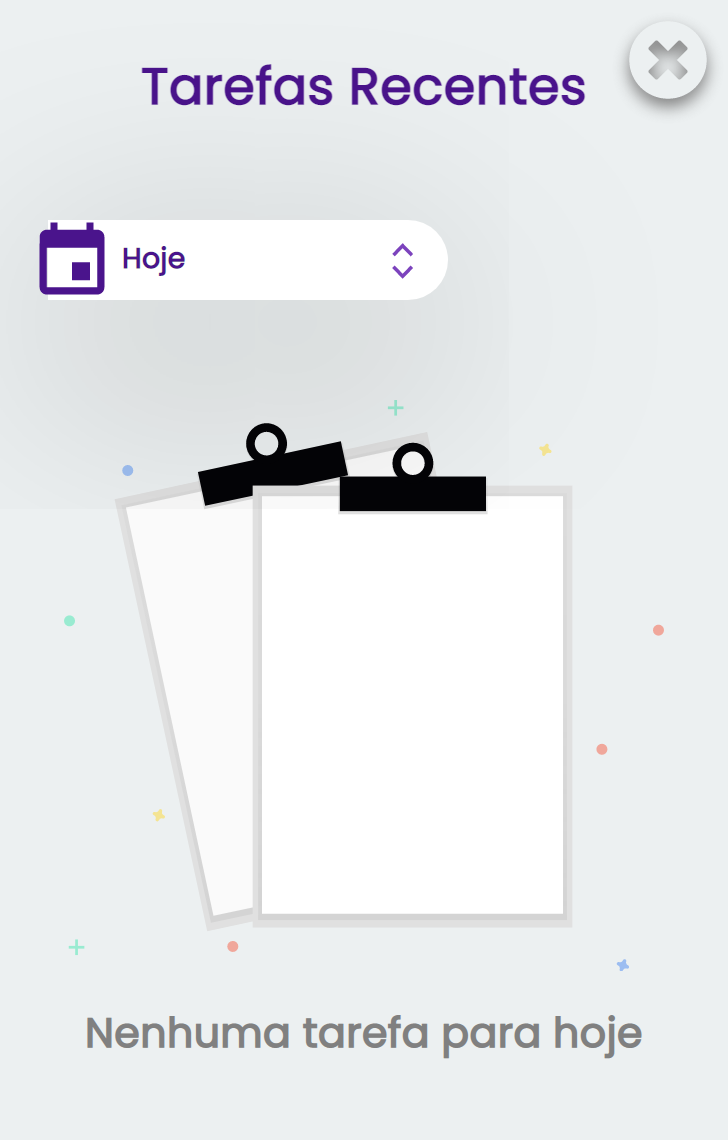
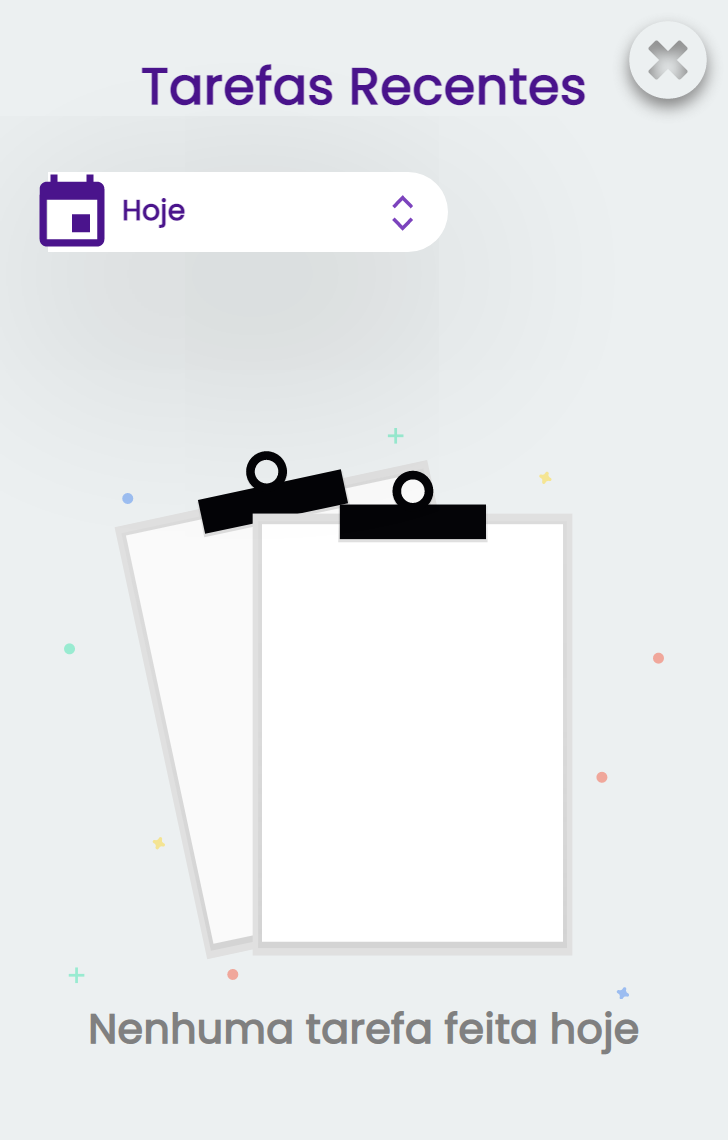
team management pt 2

diff --git a/src/components/auth/AsyncRegisterCliUser.js b/src/components/auth/AsyncRegisterCliUser.js
@@ -13,17 +13,17 @@ import PhoneIphoneIcon from "@material-ui/icons/PhoneIphone";
 import CakeIcon from "@material-ui/icons/Cake";
 import Card from "@material-ui/core/Card";
 import ReactGA from "react-ga";
-import Title from "../Title";
+import useData, { useBizData } from "init";
+import { doRegister } from "auth/api";
 import autoPhoneMask from "../../utils/validation/masks/autoPhoneMask";
 import autoCpfMaskBr from "../../utils/validation/masks/autoCpfMaskBr";
 import getDayMonthBr from "../../utils/dates/getDayMonthBr";
 import SafeEnvironmentMsg from "../SafeEnvironmentMsg";
 import RadiusBtn from "../buttons/RadiusBtn";
-import { doRegister } from "auth/api";
+import Title from "../Title";
 // Helpers
 import detectErrorField from "../../utils/validation/detectErrorField";
 import handleChange from "../../utils/form/use-state/handleChange";
-import useData, { useBizData } from "init";
 import setValObjWithStr from "../../utils/objects/setValObjWithStr";
 import getDateCode from "../../utils/dates/getDateCode";
 import ButtonMulti, { faStyle } from "../buttons/material-ui/ButtonMulti";
@@ -59,6 +59,7 @@ function ASyncRegisterCliUser({
     isStaff = false,
     callback,
     setLoginOrRegister,
+    needAlreadyRegisterBtn = false,
 }) {
     const [actionBtnDisabled, setActionBtnDisabled] = useState(false);
     const [switchNumToText, setSwitchNumToText] = useState(false); // n1
@@ -98,6 +99,7 @@ function ASyncRegisterCliUser({
         themeSColor,
         bizLogo,
         bizName,
+        bizId,
     } = useBizData();
 
     const [
@@ -141,7 +143,7 @@ function ASyncRegisterCliUser({
                     memberRole: memberRole || memberRoleAlt, // if not found memberRole, it means it is a complete register before sending link invitation.
                     clientUserData: {
                         ...data.clientUserData,
-                        bizId: lastRegisterBizId,
+                        bizId: lastRegisterBizId || bizId,
                     },
                     linkCode,
                 }));
@@ -200,27 +202,21 @@ function ASyncRegisterCliUser({
             ...data,
         };
 
-        if (!lastRegisterBizId) {
-            showToast(
-                "O ID do app não foi encontrado. Tente reinstalar o app na página de convite.",
-                { type: "error" }
-            );
-        }
-
         showToast("Registrando... Aguarde um momento.", { dur: 4000 });
 
         doRegister(newUser).then((res) => {
-            if (res.status !== 200) {
-                showToast(res.data.msg || res.data.error, { type: "error" });
-                // detect field errors
-                const thisModalFields = Object.keys(data);
-                const foundObjError = detectErrorField(
-                    res.data.msg,
-                    thisModalFields
-                );
-                setFieldError(foundObjError);
-                return;
-            }
+            console.log("res registerCliUser", res);
+            // if (res.status !== 200) {
+            //     showToast(res.data.msg || res.data.error, { type: "error" });
+            //     // detect field errors
+            //     const thisModalFields = Object.keys(data);
+            //     const foundObjError = detectErrorField(
+            //         res.data.msg,
+            //         thisModalFields
+            //     );
+            //     setFieldError(foundObjError);
+            //     return;
+            // }
 
             setStorageRegisterDone();
 
@@ -555,7 +551,7 @@ function ASyncRegisterCliUser({
                 {showForm()}
                 {showButtonActions()}
             </Card>
-            {showLoginForm()}
+            {needAlreadyRegisterBtn && showLoginForm()}
         </div>
     );
 }

diff --git a/src/pages/app/team/team-tasks-history/AsyncTeamTasksList.js b/src/pages/app/team/team-tasks-history/AsyncTeamTasksList.js
@@ -7,6 +7,7 @@ import useAPIList, {
 import useElemDetection, { checkDetectedElem } from "api/useElemDetection";
 import useRun from "global-data/ui";
 import SearchField from "components/search/SearchField";
+import getVar, { setVar } from "init/var";
 import Cards from "./card/Cards";
 import TeamTasksFilter from "./TeamTasksFilter";
 // import extractStrData from '../../../../../../utils/string/extractStrData';
@@ -25,25 +26,21 @@ export default function AsyncTeamTasksList() {
         memberId,
         bizId,
         search,
-        filter: filter || "all",
+        filter: filter || "all", // filter should be empty to avoid duplicate request...
         skip,
         limit: 5,
     };
 
     // UPDATE
-    const { runName: updateName } = useRun(); // for update list from other comps
-    const [runName, setRunName] = useState(updateName);
-    useEffect(() => {
-        if (filter) {
-            setSkip(0);
-            // setSearch("");
-            setRunName("");
-        }
-        if (runName) {
-            setSkip(0);
-            // setSearch("");
-        }
-    }, [runName, search, filter]);
+    const { runName } = useRun(); // for update list from other comps
+    useUpdate({
+        filter,
+        search,
+        setSkip,
+        setSearch,
+        setFilter,
+        runName,
+    });
     // END UPDATE
 
     const {
@@ -64,7 +61,7 @@ export default function AsyncTeamTasksList() {
         params,
         filterId: "createdAt",
         listName: "teamTasksList",
-        trigger: search || runName || filter, // filter should be last since there's a value
+        trigger: search || filter || runName,
     });
 
     // SEARCH
@@ -103,6 +100,7 @@ export default function AsyncTeamTasksList() {
                 listTotal={listTotal}
                 handlePeriodFilter={handlePeriodFilter}
                 loading={loading}
+                show={!search}
             />
         );
     };
@@ -127,14 +125,14 @@ export default function AsyncTeamTasksList() {
     );
 
     const showEmptyIllustration = () => (
-        <section className="mx-3 my-5 container-center-col">
+        <section className="mx-3 mb-5 container-center-col">
             <img
                 width={300}
                 src={"/img/illustrations/empty-data.svg" || "/img/error.png"}
                 alt="sem tarefas recentes"
             />
-            <h2 className="mt-3 text-normal font-weight-bold text-grey">
-                Nenhuma tarefa {filter === "today" ? "para hoje" : "até agora"}
+            <h2 className="text-normal font-weight-bold text-grey">
+                Nenhuma tarefa {filter === "today" ? "feita hoje" : "até agora"}
             </h2>
         </section>
     );
@@ -161,3 +159,23 @@ export default function AsyncTeamTasksList() {
         </section>
     );
 }
+
+// HOOKS
+function useUpdate({ runName, filter, search, setSkip, setSearch, setFilter }) {
+    useEffect(() => {
+        if (filter || runName || search) setSkip(0);
+        if (runName) {
+            setFilter("");
+            setSearch("");
+        }
+
+        getVar("teamTasksFilter").then((storeFilter) => {
+            if (storeFilter !== filter) setSearch("");
+            setVar({ teamTasksFilter: filter });
+        });
+
+        // eslint-disable-next-line
+    }, [runName, search, filter]);
+}
+
+// END HOOKS

diff --git a/src/pages/app/team/TeamSpeedDialBtn.js b/src/pages/app/team/TeamSpeedDialBtn.js
@@ -67,7 +67,7 @@ export default function TeamDialSpeedBtn({ sColor, disableClick, history }) {
             name: "Trocar App ►",
             backColor: `var(--themeSDark--${sColor})`,
             onClick: () => {
-                !disableClick && history.push("/painel-de-apps");
+                if (!disableClick) history.push("/painel-de-apps");
                 // playBeep();
             },
         },
@@ -76,7 +76,7 @@ export default function TeamDialSpeedBtn({ sColor, disableClick, history }) {
             name: "Tarefas Recentes ►",
             backColor: `var(--themeSDark--${sColor})`,
             onClick: () => {
-                !disableClick && openTeamTasks(true);
+                if (!disableClick) openTeamTasks(true);
                 // playBeep();
             },
         },
@@ -103,6 +103,7 @@ export default function TeamDialSpeedBtn({ sColor, disableClick, history }) {
                     contentComp={<AsyncTeamTasksList />}
                     fullOpen={teamTasks}
                     setFullOpen={openTeamTasks}
+                    needIndex={false}
                 />
             )}
         </Fragment>

diff --git a/src/pages/app/team/team-tasks-history/card/card-hidden-content/PanelHiddenContent.js b/src/pages/app/team/team-tasks-history/card/card-hidden-content/PanelHiddenContent.js
@@ -1,19 +1,13 @@
 import PropTypes from "prop-types";
-import useRun from "global-data/ui";
+// import useRun from "global-data/ui";
 import getFirstName from "utils/string/getFirstName";
 
 PanelHiddenContent.propTypes = {
     data: PropTypes.object.isRequired,
 };
 
-const getStyles = () => ({
-    empty: {},
-});
-
-function PanelHiddenContent({ history, data }) {
-    const { runArray } = useRun();
-
-    const styles = getStyles();
+function PanelHiddenContent({ data }) {
+    // const { runArray } = useRun();
 
     return (
         <section className="position-relative text-normal enabledLink panel-hidden-content--root">
@@ -45,7 +39,8 @@ function PanelHiddenContent({ history, data }) {
                 <span className="d-inline-block main-font text-em-1-2 font-weight-bold">
                     {getFirstName(data.memberName && data.memberName.cap(), {
                         addSurname: true,
-                    })}
+                    })}{" "}
+                    <span className="text-em-0-9">({data.memberJob})</span>
                 </span>
             </p>
         </section>

diff --git a/src/pages/app/team/team-tasks-history/TeamTasksFilter.js b/src/pages/app/team/team-tasks-history/TeamTasksFilter.js
@@ -30,12 +30,13 @@ export default function TeamTasksFilter({
     handlePeriodFilter,
     emptyType = "filter",
     gotData,
+    show = true,
 }) {
     const defaultPeriodIcon = <DateRangeIcon />;
 
     const showCategories = () =>
-        (listTotal !== 0 || emptyType === "filter") && (
-            <section className="mt-5 position-relative text-p text-left pl-2">
+        ((show && listTotal !== 0) || (show && emptyType === "filter")) && (
+            <section className="mt-4 animated fadeInUp position-relative text-p text-left pl-2">
                 <AnimaIconsSelect
                     callback={handlePeriodFilter}
                     defaultSelected="Hoje"
@@ -46,7 +47,7 @@ export default function TeamTasksFilter({
                     needReverseBtn={false}
                     zIndex={4}
                 />
-                <section className="my-3">
+                <section className="mb-3">
                     <FilterStatus loading={loading} gotData={gotData} />
                 </section>
             </section>

diff --git a/src/api/getAPI.js b/src/api/getAPI.js
@@ -18,6 +18,7 @@ export default function getAPI({
     trigger = true,
     isSearch = false,
     fullCatch = false, // return full catch obj to handle
+    fullThen = false,
     loader = false,
     errMsg = false,
     errDur = 7000,
@@ -79,6 +80,7 @@ export default function getAPI({
         await Promise.all([
             handleProgress("end", { loader }),
             handleSuccess({
+                fullThen,
                 resolve,
                 success,
                 sucMsg,
@@ -97,7 +99,8 @@ async function handleProgress(type, { loader = false }) {
     return await showProgress(type);
 }
 
-async function handleSuccess({ resolve, success, sucMsg, sucDur }) {
+async function handleSuccess({ resolve, success, sucMsg, sucDur, fullThen }) {
+    if (fullThen) return success;
     if (!success || !success.data) return resolve(null);
     // can accept both .json({ msg: "ok" }) or .json("ok")
     const gotSucMsg = success.data.msg;

diff --git a/src/pages/app/team/add-points/content/AddTempPoints.js b/src/pages/app/team/add-points/content/AddTempPoints.js
@@ -107,7 +107,7 @@ export default function AddTempPoints({
     const [setFullOpen] = useState(false);
 
     const { userId: staffId, name, role } = useData();
-    const [staffJob, loadingStaff] = useData(["memberJob"], { dots: false });
+    const [staffJob] = useData(["memberJob"], { dots: false });
 
     const { bizLogo, bizName } = useBizData();
 
@@ -176,12 +176,6 @@ export default function AddTempPoints({
     };
 
     const handleConfirm = () => {
-        if (!staffJob && !loadingStaff)
-            return showToast(
-                "Dados faltando... Por favor, desconecte-se da sua conta e tente novamente",
-                { type: "error", dur: 10000 }
-            );
-
         (async () => {
             const selectedTTS = getRandomArray(ttsStore);
             const { audio, text } = selectedTTS;

diff --git a/src/pages/app/team/team-tasks-history/card/Cards.js b/src/pages/app/team/team-tasks-history/card/Cards.js
@@ -1,5 +1,5 @@
 import getFirstName from "utils/string/getFirstName";
-import { calendar } from "utils/dates/dateFns";
+import { fromNow } from "utils/dates/dateFns";
 import TeamTasksCard from "./accordion/TeamTasksCard";
 import PanelHiddenContent from "./card-hidden-content/PanelHiddenContent";
 
@@ -86,7 +86,7 @@ function SecHeading({ data }) {
         <section>
             <p className="team-tasks date-badge text-nowrap position-relative d-block m-0 mt-2">
                 <span className="text-small text-shadow font-weight-bold">
-                    Feito: {calendar(data.createdAt)}.
+                    Feito {fromNow(data.createdAt)}.
                 </span>
                 <style jsx>
                     {`

diff --git a/src/init/var.js b/src/init/var.js
@@ -24,13 +24,14 @@ export default function getVar(key, options = {}) {
     return variablesStore(storeName).getItem(key);
 }
 
+// for user's data, prefer using useData like const [staffJob, loadingStaff] = useData(["memberJob"], { dots: false });
 export const useVar = (key, options = {}) => {
-    const { dots = false } = options;
+    const { dots = false, store } = options;
 
     const [val, setVal] = useState(dots ? "..." : null);
 
     useEffect(() => {
-        getVar(key).then((value) => setVal(value));
+        getVar(key, store).then((value) => setVal(value));
     }, [key]);
 
     return val;

diff --git a/src/pages/app/team/add-benefits/content/cards/cta/benefit/DiscountBenefit.js b/src/pages/app/team/add-benefits/content/cards/cta/benefit/DiscountBenefit.js
@@ -18,6 +18,8 @@ export default function DiscountBenefit(props) {
 
     const uify = useAction();
 
+    const [staffJob] = useData(["memberJob"], { dots: false });
+
     const {
         closeModal,
         closeScanner, // only for qrCode
@@ -71,9 +73,9 @@ export default function DiscountBenefit(props) {
             currChall,
             staff: {
                 id: staffId,
+                job: staffJob || "admin",
                 role,
                 name: staffName,
-                updatedAt: new Date(),
             },
         };
 

diff --git a/src/utils/form/handleNextField.js b/src/utils/form/handleNextField.js
@@ -50,7 +50,7 @@ export const handleNextField = (e, currField, options = {}) => {
 
     if (event === "onKeyPress") {
         if (isKeyPressed(e, "Enter")) {
-            const needRun = addFieldToQueue();
+            const needRun = true; //addFieldToQueue(); after the first register, the nextfield won't work untill user reload page to clear used fields
             if (needRun) runNextField();
 
             runCallback();

diff --git a/src/pages/mobile-app/ClientMobileApp.js b/src/pages/mobile-app/ClientMobileApp.js
@@ -241,6 +241,7 @@ function ClientMobileApp({ location, history }) {
                     <div className="position-relative" style={{ top: -120 }}>
                         {isCliUser && (
                             <AsyncRegisterCliUser
+                                needAlreadyRegisterBtn
                                 setLoginOrRegister={setLoginOrRegister}
                             />
                         )}
